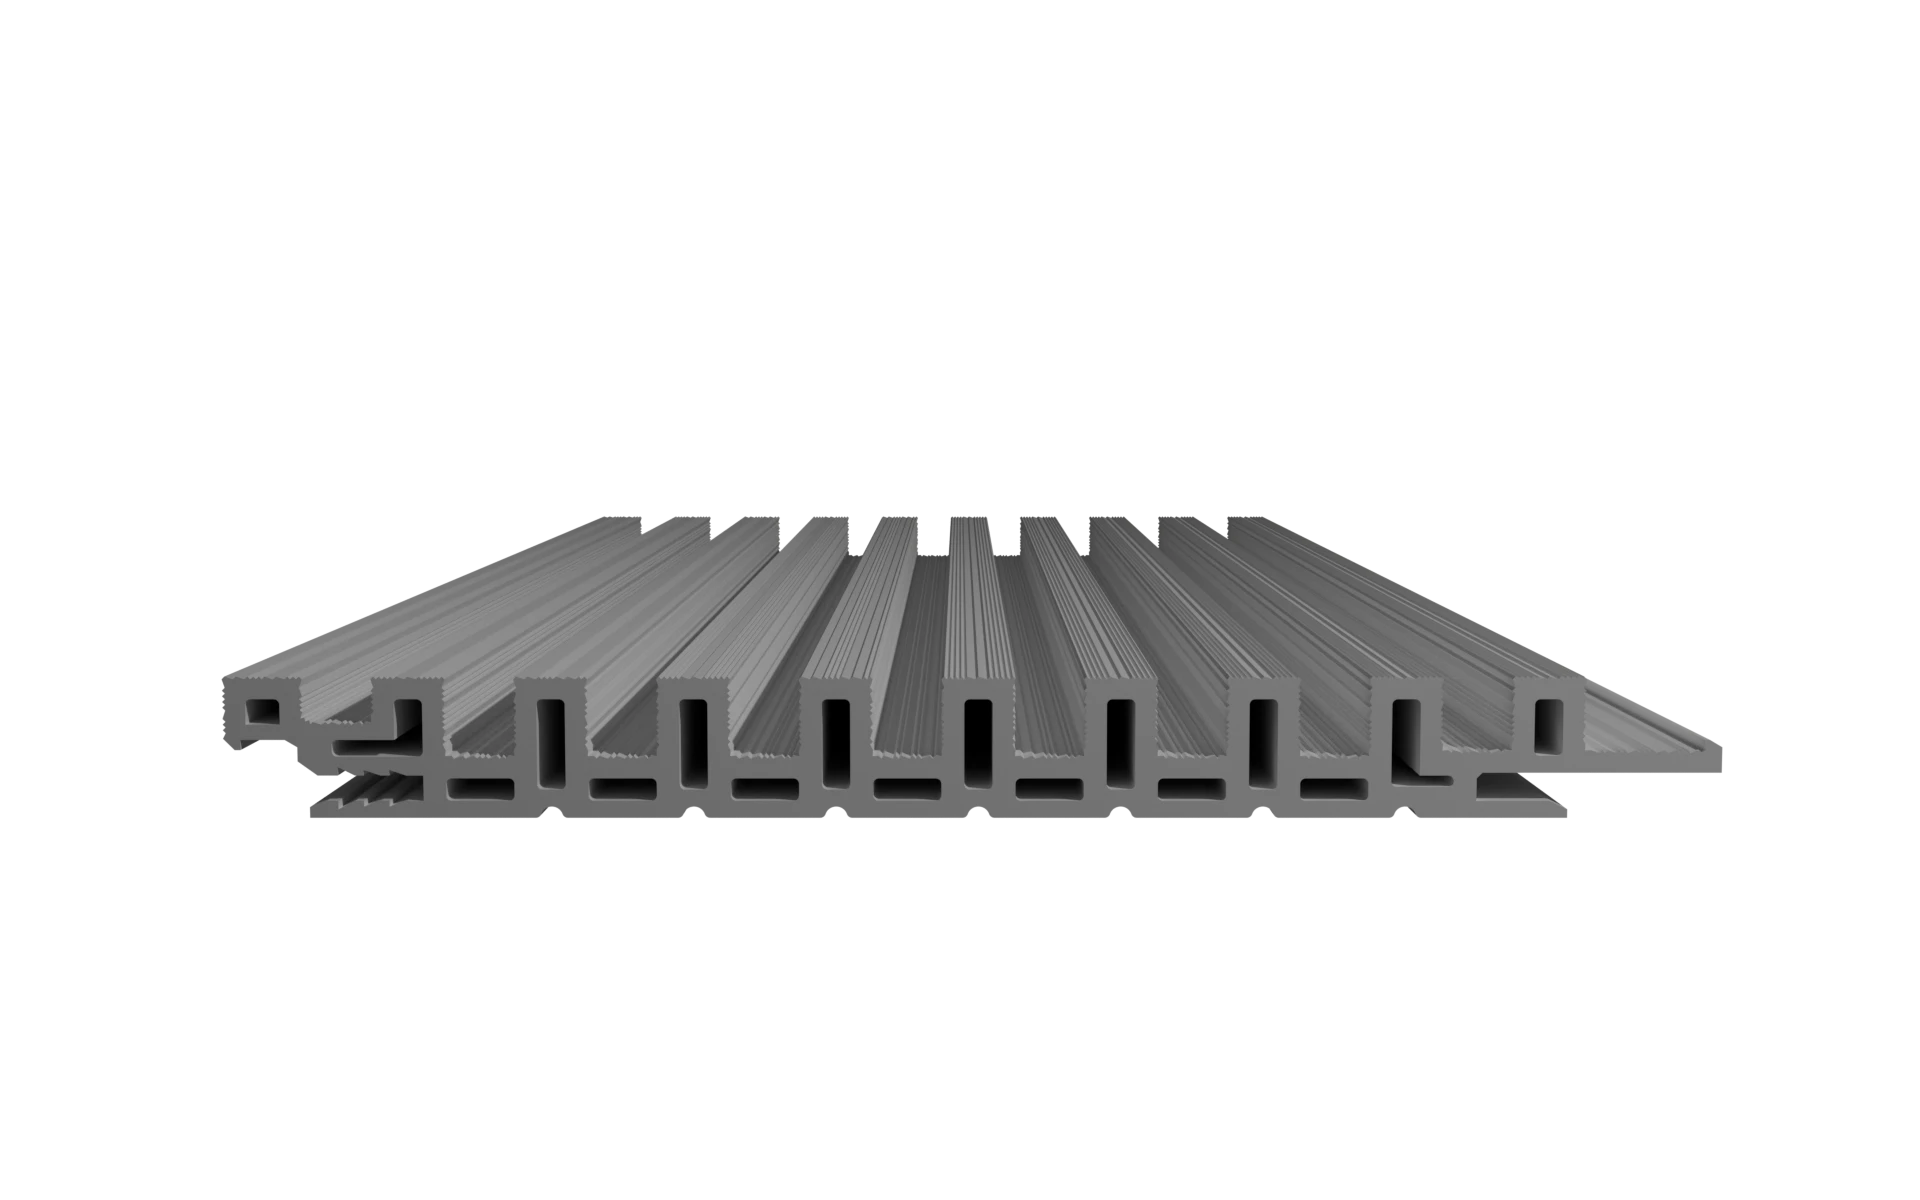
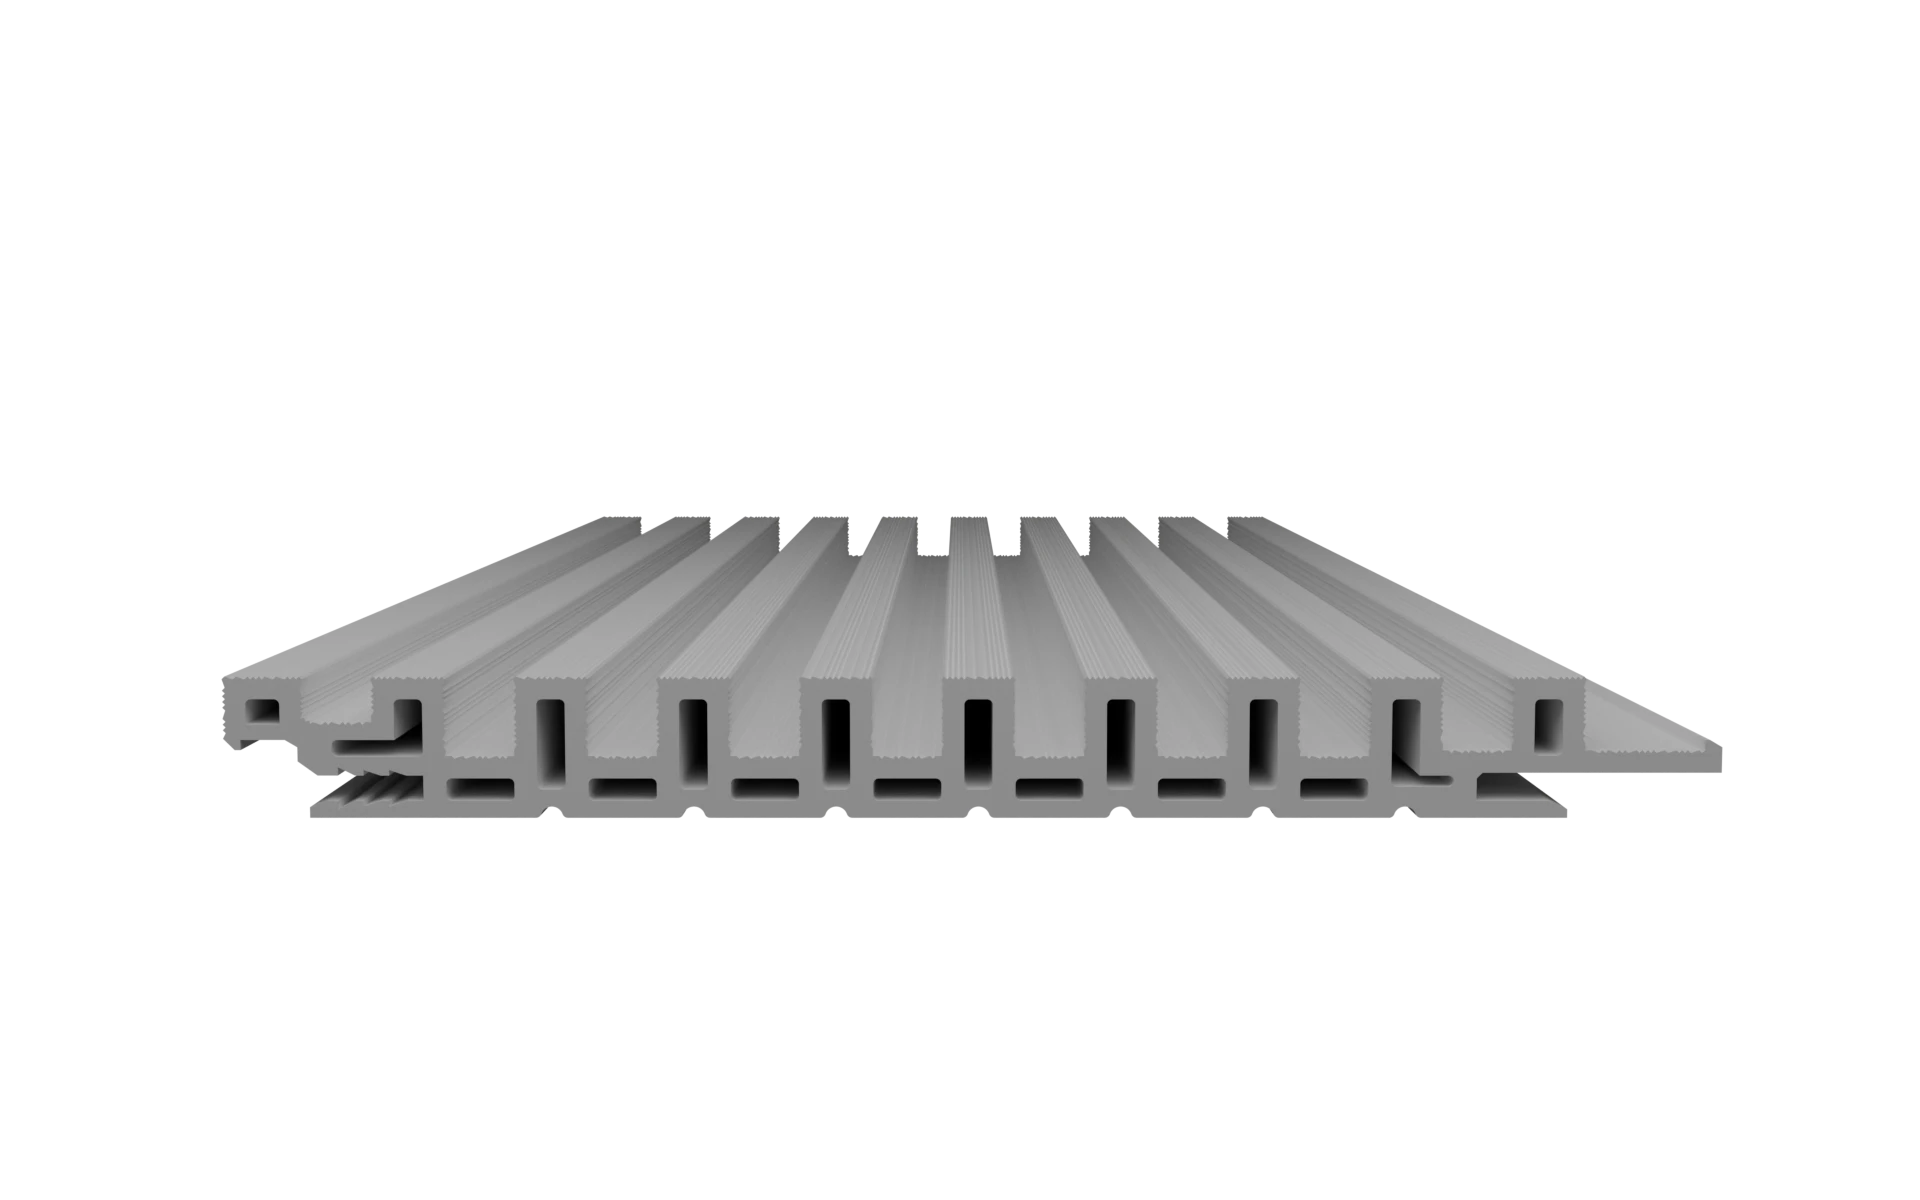
fix pannelli

Changed region(s): [[0.0938, 0.4317, 0.9062, 0.6783]]

diff --git a/src/app/components/products/products.component.ts b/src/app/components/products/products.component.ts
@@ -65,10 +65,10 @@ export class ProductsComponent {
     // If it is Card 2, boost the base brightness & contrast gently for light colors to avoid "burning" (clipping highlights)
     if (cardNum === 2) {
       if (finishId === 'white') {
-        return 'grayscale(100%) brightness(1.9) contrast(1.05)';
+        return 'grayscale(100%) brightness(2.05) contrast(1.05)';
       }
       if (finishId === 'avorico') {
-        return 'grayscale(100%) brightness(1.5) contrast(1.02)';
+        return 'grayscale(100%) brightness(1.7) contrast(1.0)';
       }
       if (finishId === 'sand') {
         return 'grayscale(100%) brightness(1.45) contrast(1.05)';
